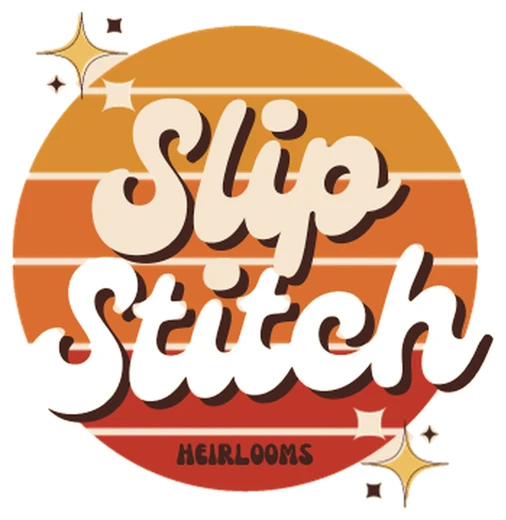
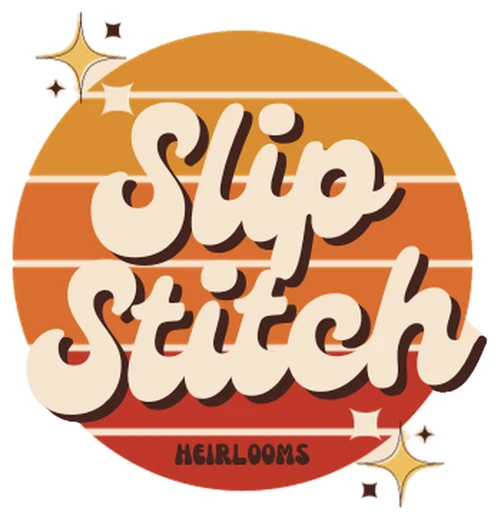
Odds & Ends: crisp logistics sticker, full Slip Stitch S, no leafy cutouts
- Logistics sticker re-rendered from the full-size logo (about 4x sharper)
- Slip Stitch: shape taken from the dark-green version so the cream S is
  kept whole, colors from the cream original
- Fern, meadow-rue, and yarrow cutouts swapped for duplicate flowers; they
  remain only as the faint decoupage in the paper

Claude-Session: https://claude.ai/code/session_01Nkk7RTQs6f9adRdgWtfamd

diff --git a/src/components/OddsAndEnds.tsx b/src/components/OddsAndEnds.tsx
@@ -55,8 +55,8 @@ const pieces: Piece[] = [
 
   // Logo stickers, stuck on the kraft paper
   { src: "/odds/rapscallion.webp", w: 520, h: 195, alt: "Rapscallion Station ransom-note bar logo sticker", frame: "sticker", d: [46, 72, 14, -4, 20], m: [386, 10, 50, -4, 20] },
-  { src: "/odds/slipstitch.webp", w: 506, h: 520, alt: "Slip Stitch Heirlooms retro sunset logo sticker", frame: "sticker", d: [64, 87, 8.5, 8, 20], m: [384, 66, 26, 8, 20] },
-  { src: "/odds/logistics-logo.webp", w: 300, h: 221, alt: "Logistics company logo sticker", frame: "sticker", d: [60, 71.5, 7, 6, 20], m: [408, 10, 22, 6, 20] },
+  { src: "/odds/slipstitch.webp", w: 499, h: 520, alt: "Slip Stitch Heirlooms retro sunset logo sticker", frame: "sticker", d: [64, 87, 8.5, 8, 20], m: [384, 66, 26, 8, 20] },
+  { src: "/odds/logistics-logo.webp", w: 420, h: 316, alt: "Logistics company logo sticker", frame: "sticker", d: [60, 71.5, 7, 6, 20], m: [408, 10, 22, 6, 20] },
   { src: "/odds/sailor.webp", w: 151, h: 197, alt: "Bearded sailor icon logo sticker", frame: "sticker", d: [71, 72, 4, -6, 20], m: [410, 36, 12, -6, 20] },
 
   { src: "/odds/truck-patch.webp", w: 360, h: 360, alt: "Truck Patch round badge logo sticker", frame: "sticker", d: [45, 87.5, 8.5, 8, 20], m: [410, 50, 22, 8, 20] },
@@ -67,9 +67,9 @@ const pieces: Piece[] = [
   // Pressed botanicals, some tucked under the pieces and some laid on top
   { src: "/odds/bot/sweetgum.webp", w: 294, h: 240, alt: "", frame: "botanical", d: [79, 7, 8, 20, 4], m: [190, 70, 24, 20, 4] },
   { src: "/odds/bot/sweetgum-2.webp", w: 289, h: 244, alt: "", frame: "botanical", d: [30, 76, 7, -15, 3] },
-  { src: "/odds/bot/meadow-rue.webp", w: 206, h: 295, alt: "", frame: "botanical", d: [36, 68.5, 5, 12, 5], m: [300, 86, 13, 12, 25] },
-  { src: "/odds/bot/fern.webp", w: 165, h: 296, alt: "", frame: "botanical", d: [76, 50, 4.5, -8, 25], m: [52, 2, 12, -8, 25] },
-  { src: "/odds/bot/yarrow.webp", w: 192, h: 285, alt: "", frame: "botanical", d: [78, 30, 4.5, 10, 5] },
+  { src: "/odds/bot/rose-peach.webp", w: 240, h: 229, alt: "", frame: "botanical", d: [36, 68.5, 5, 12, 5], m: [300, 86, 13, 12, 25] },
+  { src: "/odds/bot/cosmos.webp", w: 187, h: 184, alt: "", frame: "botanical", d: [76, 50, 4.5, -8, 25], m: [52, 2, 12, -8, 25] },
+  { src: "/odds/bot/dandelion-2.webp", w: 186, h: 185, alt: "", frame: "botanical", d: [78, 30, 4.5, 10, 5] },
   { src: "/odds/bot/skeleton-leaf.webp", w: 144, h: 219, alt: "", frame: "botanical", d: [16, 28.5, 4, -20, 5], m: [244, 42, 13, -20, 25] },
   { src: "/odds/bot/rose-peach.webp", w: 240, h: 229, alt: "", frame: "botanical", d: [40, 0.5, 6.5, 0, 25], m: [116, 2, 18, 0, 25] },
   { src: "/odds/bot/rose-gold.webp", w: 162, h: 170, alt: "", frame: "botanical", d: [84, 60, 5, 15, 25], m: [472, 8, 14, 15, 25] },
